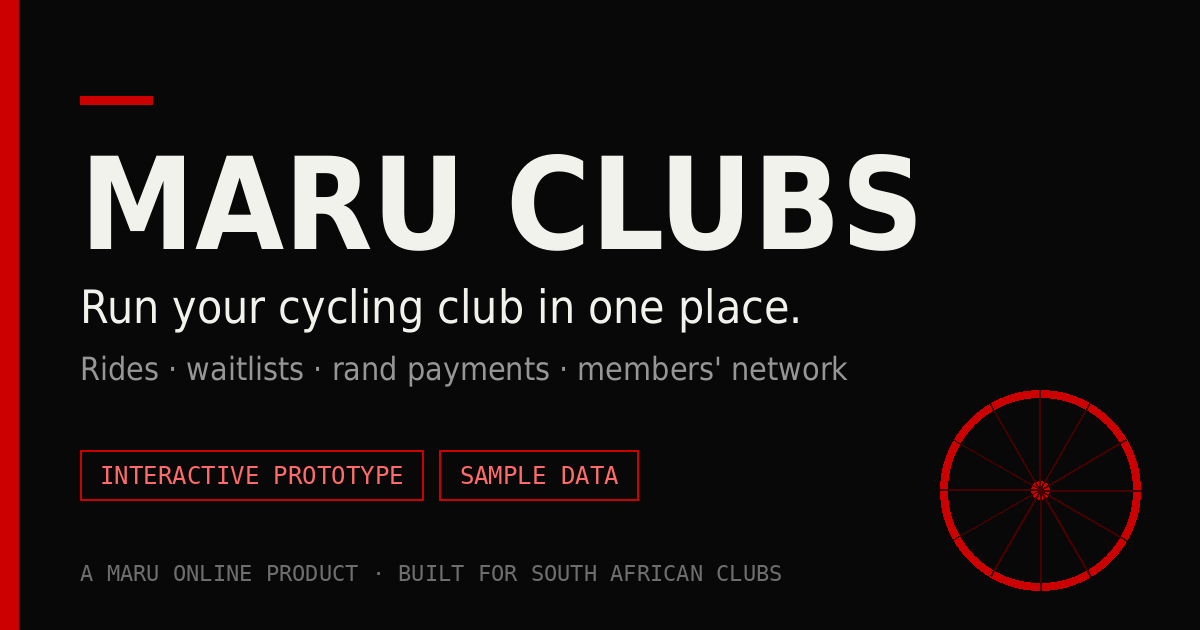
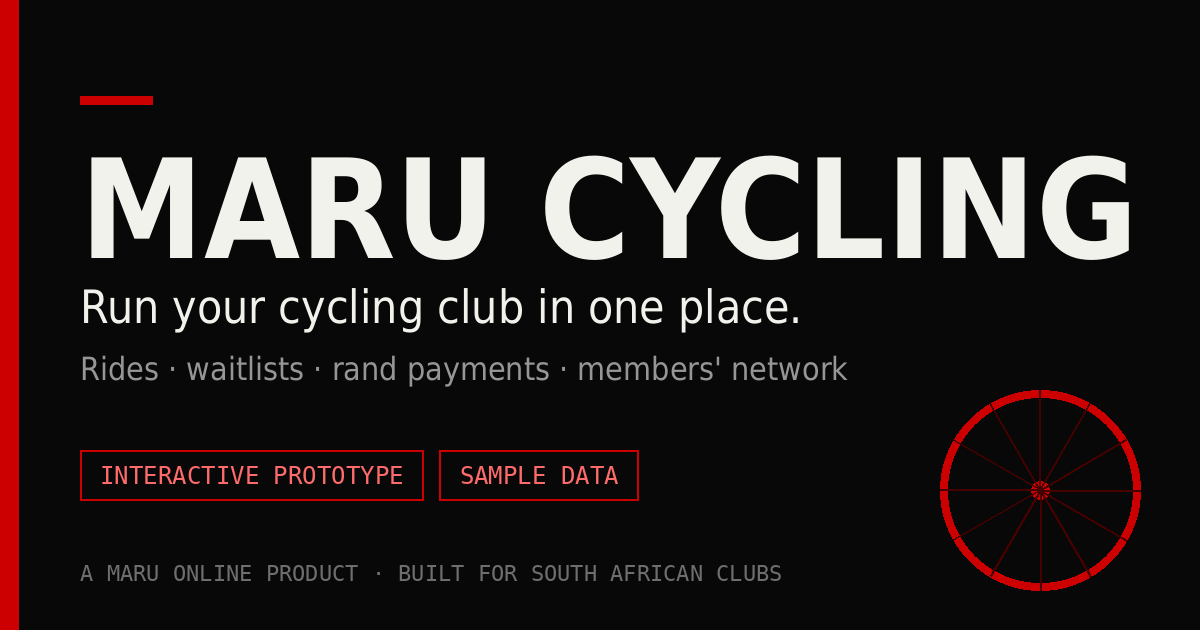
Rename Maru Clubs to Maru Cycling across prototype, deck and OG cover
Claude-Session: https://claude.ai/code/session_014wc4tvSDG75sZoVDhXxLE1

Changed region(s): [[0.0925, 0.2413, 0.9558, 0.4222], [0.0617, 0.3921, 0.0925, 0.4222], [0.0617, 0.2413, 0.0925, 0.2714]]

diff --git a/index.html b/index.html
@@ -3,19 +3,19 @@
 <head>
 <meta charset="utf-8">
 <meta name="viewport" content="width=device-width, initial-scale=1">
-<title>Maru Clubs — Interactive Prototype</title>
-<meta name="description" content="Clickable prototype of Maru Clubs, a club platform for private social cycling clubs in South Africa. Sample data only.">
+<title>Maru Cycling — Interactive Prototype</title>
+<meta name="description" content="Clickable prototype of Maru Cycling, a club platform for private social cycling clubs in South Africa. Sample data only.">
 <meta name="robots" content="noindex, nofollow">
 <meta property="og:type" content="website">
-<meta property="og:site_name" content="Maru Clubs">
-<meta property="og:title" content="Maru Clubs — Interactive Prototype">
+<meta property="og:site_name" content="Maru Cycling">
+<meta property="og:title" content="Maru Cycling — Interactive Prototype">
 <meta property="og:description" content="Rides, waitlists, rand payments and a members' business network for South African cycling clubs. Tap through it on your phone. Sample data only.">
 <meta property="og:url" content="https://maru-clubs.vercel.app/">
 <meta property="og:image" content="https://maru-clubs.vercel.app/og-cover.png">
 <meta property="og:image:type" content="image/png">
 <meta property="og:image:width" content="1200">
 <meta property="og:image:height" content="630">
-<meta property="og:image:alt" content="Maru Clubs — a platform for South African cycling clubs">
+<meta property="og:image:alt" content="Maru Cycling — a platform for South African cycling clubs">
 <meta name="twitter:card" content="summary_large_image">
 <meta name="twitter:image" content="https://maru-clubs.vercel.app/og-cover.png">
 <link rel="preconnect" href="https://fonts.googleapis.com">
@@ -221,7 +221,7 @@ body.phone-mode #phone-stage{display:flex}
 </style>
 </head>
 <body>
-<div id="welcome" role="dialog" aria-label="Welcome to Maru Clubs">
+<div id="welcome" role="dialog" aria-label="Welcome to Maru Cycling">
 <div class="ph"></div><div class="shade"></div>
 <div class="col"><span class="eyebrow">Maru Online · Interactive prototype</span>
 <h1><span class="ol">South Africa’s weekend</span>The club app riders don’t have yet</h1>
@@ -230,7 +230,7 @@ body.phone-mode #phone-stage{display:flex}
 <div class="ctas"><button class="btn" onclick="enterApp()">Enter the prototype →</button><button class="btn ghost dsk" onclick="enterApp('iphone')">View as iPhone</button></div></div>
 <div class="foot">Sample data · nothing is saved</div></div>
 <div class="proto-bar">
-  <span><span style="color:#ff6b6b">●</span> <span class="txt">INTERACTIVE PROTOTYPE · SAMPLE DATA · </span>MARU CLUBS</span>
+  <span><span style="color:#ff6b6b">●</span> <span class="txt">INTERACTIVE PROTOTYPE · SAMPLE DATA · </span>MARU CYCLING</span>
   <div class="grp">
     <div class="seg" id="vseg" role="group" aria-label="Device">
       <button id="v-desktop" class="on" onclick="setView('desktop')">DESKTOP</button>
@@ -250,7 +250,7 @@ body.phone-mode #phone-stage{display:flex}
   </aside>
   <main id="view" aria-live="polite"></main>
 </div>
-<div id="phone-stage"><div id="phone-wrap"><div class="phone"><iframe id="phone-frame" title="Maru Clubs on iPhone" loading="lazy"></iframe></div></div><div id="phone-note"><b>THE <em>IPHONE</em> VIEW</b>Tap through it the way a member would on their phone. Switch between Member and Admin at the top, or back to Desktop for the full layout.</div></div>
+<div id="phone-stage"><div id="phone-wrap"><div class="phone"><iframe id="phone-frame" title="Maru Cycling on iPhone" loading="lazy"></iframe></div></div><div id="phone-note"><b>THE <em>IPHONE</em> VIEW</b>Tap through it the way a member would on their phone. Switch between Member and Admin at the top, or back to Desktop for the full layout.</div></div>
 <nav class="mobnav" id="mobnav"></nav>
 <div class="modal-bg" id="modal" onclick="if(event.target===this)closeModal()"><div class="modal" id="modal-body"></div></div>
 <div class="toast" id="toast"></div>
@@ -446,7 +446,7 @@ function vClubs(){
 }
 function switchClub(k){club=clubs[k];document.documentElement.style.setProperty('--brand',club.brand);document.documentElement.style.setProperty('--brand-hi',club.hi);$('#club-logo').textContent=club.logo;$('#club-name').textContent=club.name;$('#club-sub').textContent=club.sub;toast(`Now viewing ${club.name}`);route()}
 function vAbout(){
-  return header('About this prototype','WHAT YOU\'RE LOOKING AT','A clickable model of Maru Clubs, built from the existing PBC design. It runs on sample data: nothing is saved and no payment is real.') +
+  return header('About this prototype','WHAT YOU\'RE LOOKING AT','A clickable model of Maru Cycling, built from the existing PBC design. It runs on sample data: nothing is saved and no payment is real.') +
   `<div class="grid people">
    ${[['RSVP and waitlists','Pace groups with their own caps. Full groups keep a queue that moves automatically.','#ride-blue-valley'],['Payments in rand','Dues and ride fees by card or Instant EFT, with a live register for the treasurer.','#payments'],['Business network','A private directory of members\' businesses and offers.','#network'],['Admin command centre','Capacity, waitlists, dues and POPIA requests on one screen.','#admin'],['Many clubs, one platform','Each club gets its own brand, address and data.','#clubs'],['WhatsApp-friendly','Share a ride to the group chat; members RSVP from the link.','#ride-hartbeespoort']].map(([t,d,h])=>`<a class="card" href="${h}" style="text-decoration:none"><div style="font-weight:500;font-size:14.5px">${t}</div><div class="muted" style="font-size:12.5px;line-height:1.5;margin-top:6px">${d}</div><div class="mono tag" style="margin-top:12px;color:var(--brand)">OPEN →</div></a>`).join('')}</div>`;
 }

diff --git a/deck/index.html b/deck/index.html
@@ -3,12 +3,12 @@
 <head>
 <meta charset="utf-8">
 <meta name="viewport" content="width=device-width, initial-scale=1">
-<title>Maru Clubs — Investor Deck for Phenyo</title>
+<title>Maru Cycling — Investor Deck for Phenyo</title>
 <meta name="description" content="The club app South Africa's weekend riders don't have yet: rides, waitlists, rand payments and a members' network. Investor deck, November 2026.">
 <meta name="robots" content="noindex, nofollow">
 <meta property="og:type" content="website">
-<meta property="og:site_name" content="Maru Clubs">
-<meta property="og:title" content="Maru Clubs — Investor Deck">
+<meta property="og:site_name" content="Maru Cycling">
+<meta property="og:title" content="Maru Cycling — Investor Deck">
 <meta property="og:description" content="A real gap, a small market and a cheap way to find out. 19 slides, with a clickable prototype.">
 <meta property="og:url" content="https://maru-clubs.vercel.app/deck/">
 <meta property="og:image" content="https://maru-clubs.vercel.app/og-deck.png">
@@ -196,7 +196,7 @@ tr[style*="FBE3E0"]{background:#FFF4C2!important;box-shadow:inset 6px 0 0 var(--
 <div class="card in" style="flex:1;"><p class="tag">TODAY, IN THE GROUP CHAT</p>
 <ul style="font-size:30px;line-height:1.6;color:#CCCCCA;"><li>Ride details buried under replies</li><li>RSVPs counted by hand</li><li>No queue when a group is full</li><li>Dues chased one member at a time</li><li>No record of who rode</li></ul></div>
 <div style="width:120px;display:flex;align-items:center;justify-content:center;"><x-shape style="background:#CC0000;width:88px;height:44px;"></x-shape></div>
-<div class="card accent in d2" style="flex:1;"><p class="tag">WITH MARU CLUBS</p>
+<div class="card accent in d2" style="flex:1;"><p class="tag">WITH MARU CYCLING</p>
 <ul style="font-size:30px;line-height:1.6;color:#F2F2ED;"><li>One calendar with pace groups</li><li>RSVP in one tap, with a cap per group</li><li>Automatic waitlist that moves up</li><li>Dues paid in rand and tracked live</li><li>A members’ business network</li></ul></div>
 </div>
 <p class="source">Problem as described in PBC’s own proposal: ride information lost in 200 messages, no single calendar, no digital home. <a href="https://maru-clubs.vercel.app/#ride-blue-valley" target="_blank" rel="noopener" style="color:var(--yellow);">See a ride in the prototype →</a></p>
@@ -237,7 +237,7 @@ tr[style*="FBE3E0"]{background:#FFF4C2!important;box-shadow:inset 6px 0 0 var(--
 <p class="eyebrow">Q2 · STRAVA, SPOND, CYCLE LAB ACTIVE</p>
 <h2 class="st">EACH COVERS PART OF THE CLUB.<br><em>NONE COVERS ALL OF IT</em></h2>
 <table style="font-size:26px;color:#141413;">
-<tr><th style="width:28%;">What a club needs</th><th style="width:17%;">Strava</th><th style="width:19%;">Spond Club</th><th style="width:19%;">Cycle Lab Active</th><th style="width:17%;">Maru Clubs</th></tr>
+<tr><th style="width:28%;">What a club needs</th><th style="width:17%;">Strava</th><th style="width:19%;">Spond Club</th><th style="width:19%;">Cycle Lab Active</th><th style="width:17%;">Maru Cycling</th></tr>
 <tr><td>Rides with pace groups</td><td>Yes, up to 4</td><td>Generic events</td><td>Yes, own rides</td><td style="color:#B30000;">Yes</td></tr>
 <tr><td>Cap per group, auto waitlist</td><td>Cap; no waitlist found</td><td>Waitlists on courses</td><td>Not stated</td><td style="color:#B30000;">Yes</td></tr>
 <tr><td>Club brand and own web address</td><td class="no">No, a Strava page</td><td>Yes</td><td>Cycle Lab brand</td><td style="color:#B30000;">Yes</td></tr>
@@ -421,7 +421,7 @@ tr[style*="FBE3E0"]{background:#FFF4C2!important;box-shadow:inset 6px 0 0 var(--
 </div>
 </div>
 <div class="card" style="flex:none;padding:24px 32px;gap:8px;"><p class="tag">ONE WAY TO READ IT · ILLUSTRATIVE, NOT A VALUATION</p><p class="txt">Each 1% of three-year revenue is about R12,450. Each 1% of the company, valued at 3× Year 3 recurring revenue, is about R18,800. What we offer is for us to shape together.</p></div>
-<p class="source">Maru Clubs business model, base case. Every price, cost and uptake rate is a placeholder to be replaced by pilot results.</p>
+<p class="source">Maru Cycling business model, base case. Every price, cost and uptake rate is a placeholder to be replaced by pilot results.</p>
 </section>
 
 <section id="invest">
@@ -487,7 +487,7 @@ tr[style*="FBE3E0"]{background:#FFF4C2!important;box-shadow:inset 6px 0 0 var(--
 <li><a href="https://communitypilot.lovable.app/" style="color:#B30000;" target="_blank" rel="noopener">Comunita</a></li>
 </ul>
 </div>
-<p class="source">Market sizing: Perplexity research (13 Nov 2026), inputs unsourced. Costs and revenue: Maru Clubs business model, base case, placeholders.</p>
+<p class="source">Market sizing: Perplexity research (13 Nov 2026), inputs unsourced. Costs and revenue: Maru Cycling business model, base case, placeholders.</p>
 </section>
 
 </div></div>
